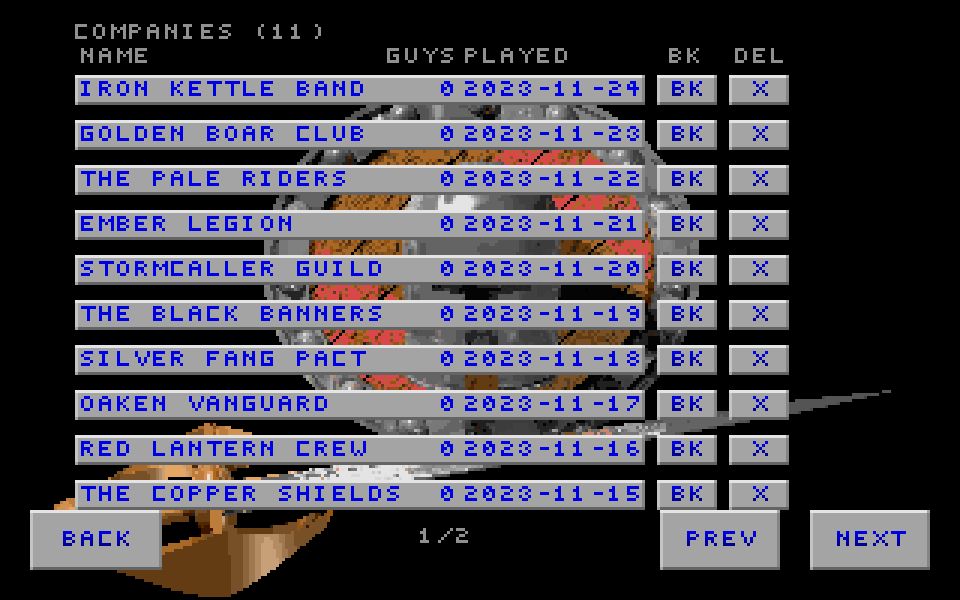
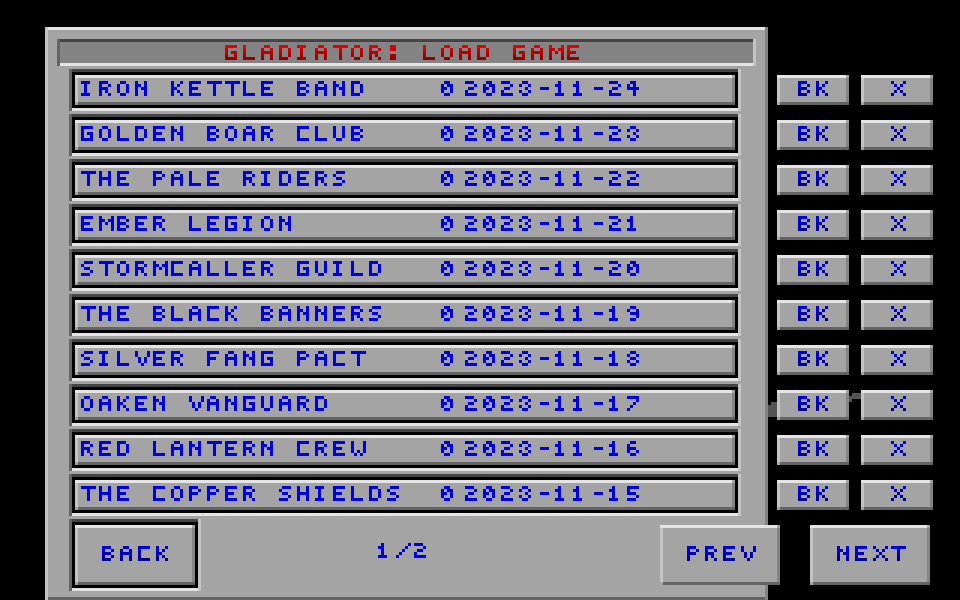
Restore the classic Load Game layout

diff --git a/src/interface/ui/menu_screen_specs.cpp b/src/interface/ui/menu_screen_specs.cpp
@@ -2702,7 +2702,8 @@ Sint32 name_entry_on_spec_row(int row, void* screen_state)
 // and pager hidden, BACK alone — what a bare engine sweep sees.
 CompanyListScreenState* g_company_list_state = nullptr;
 
-// §2.3 geometry: 10 rows at the save-slot pitch, each a (row, BK, X) triple.
+// §2.3 / §9.17 geometry: the old Load Game menu's 220px slot column and
+// 15px pitch, with the company-era BK/X actions appended as a slim side rail.
 // Table order groups by kind — rows 0-9, BK 10-19, X 20-29, then the chrome —
 // so the MenuSpecRow arg (== the spec ordinal, G3) decodes as arg/10 = kind,
 // arg%10 = visual row.
@@ -2713,21 +2714,21 @@ constexpr int kCompanyListBackIndex = 30;
 constexpr int kCompanyListPrevIndex = 31;
 constexpr int kCompanyListNextIndex = 32;
 
-// One visual row's (row, BK, X) triple: rects straight from the §2.3 table —
-// company_row (25,25+15i,190,10), BK (219,25+15i,20,10), X (243,25+15i,20,10).
+// One visual row's (row, BK, X) triple: company_row restores the retired slot
+// rect (25,25+15i,220,10); BK/X sit just outside its classic x=15..255 frame.
 // Static nav is the full-page multi-page shape (rows chain vertically,
 // row.right -> BK -> X, row9.down -> BACK, X column bottoms out on PREV); the
 // per-frame rewire recomputes every link from the live state anyway.
 #define OG_COMPANY_LIST_ROW(i)                                               \
     {.id = "company_row_" #i, .label = "",                                   \
-     .x = 25, .y = 25 + 15 * (i), .w = 190, .h = 10,                          \
+     .x = 25, .y = 25 + 15 * (i), .w = 220, .h = 10,                          \
      .action = ButtonAction::MenuSpecRow, .arg = (i),                        \
      .nav = {.up = (i) > 0 ? (i) - 1 : -1,                                    \
              .down = (i) < 9 ? (i) + 1 : kCompanyListBackIndex,               \
              .right = kCompanyListBakBase + (i)}}
 #define OG_COMPANY_LIST_BAK(i)                                               \
     {.id = "company_bak_" #i, .label = "BK",                                 \
-     .x = 219, .y = 25 + 15 * (i), .w = 20, .h = 10,                          \
+     .x = 259, .y = 25 + 15 * (i), .w = 24, .h = 10,                          \
      .action = ButtonAction::MenuSpecRow, .arg = kCompanyListBakBase + (i),  \
      .nav = {.up = (i) > 0 ? kCompanyListBakBase + (i) - 1 : -1,              \
              .down = (i) < 9 ? kCompanyListBakBase + (i) + 1                  \
@@ -2735,7 +2736,7 @@ constexpr int kCompanyListNextIndex = 32;
              .left = (i), .right = kCompanyListDelBase + (i)}}
 #define OG_COMPANY_LIST_DEL(i)                                               \
     {.id = "company_del_" #i, .label = "X",                                  \
-     .x = 243, .y = 25 + 15 * (i), .w = 20, .h = 10,                          \
+     .x = 287, .y = 25 + 15 * (i), .w = 24, .h = 10,                          \
      .action = ButtonAction::MenuSpecRow, .arg = kCompanyListDelBase + (i),  \
      .nav = {.up = (i) > 0 ? kCompanyListDelBase + (i) - 1 : -1,              \
              .down = (i) < 9 ? kCompanyListDelBase + (i) + 1                  \
@@ -2757,19 +2758,19 @@ constexpr MenuButtonSpec kCompanyListRows[] = {
     OG_COMPANY_LIST_DEL(9),
     // BACK to the main menu; Escape hotkey (the shared cancel grammar).
     {.id = "back", .label = "BACK", .hotkey = KEYSTATE_ESCAPE,
-     .x = 10, .y = 170, .w = 44, .h = 20,
+     .x = 25, .y = 175, .w = 40, .h = 20,
      .action = ButtonAction::MenuSpecRow, .arg = kCompanyListBackIndex,
      .nav = {.up = 9, .right = kCompanyListPrevIndex}},
     // Real MenuSpecRow pager actions (keyboard-live, §2.3); statically
     // hidden — the rewire shows them only when the list spans pages.
     {.id = "company_page_prev", .label = "PREV",
-     .x = 220, .y = 170, .w = 40, .h = 20,
+     .x = 220, .y = 175, .w = 40, .h = 20,
      .action = ButtonAction::MenuSpecRow, .arg = kCompanyListPrevIndex,
      .nav = {.up = 29, .left = kCompanyListBackIndex,
              .right = kCompanyListNextIndex},
      .hidden = true},
     {.id = "company_page_next", .label = "NEXT",
-     .x = 270, .y = 170, .w = 40, .h = 20,
+     .x = 270, .y = 175, .w = 40, .h = 20,
      .action = ButtonAction::MenuSpecRow, .arg = kCompanyListNextIndex,
      .nav = {.up = 29, .left = kCompanyListPrevIndex},
      .hidden = true},
@@ -2853,39 +2854,52 @@ void company_list_rewire(button* buttons, int count, int& /*highlighted*/)
         sync_button_hidden_state(buttons, i);
 }
 
-// The §2.3 content pass: title + column headers over the backdrop (the
-// black-strip idiom, U2), the three row columns at x=27/141/155, the "p/N"
-// indicator, and the empty state.
+// Keep the dedicated Company List backdrop hook even though the classic
+// slot-menu chrome is drawn later, in company_list_draw_content. The old
+// create_load_menu choreography was backdrop -> buttons -> panel -> repaint
+// slots; drawing the panel here would put it before the engine's first button
+// pass instead of preserving that recognizable late-overlay order.
+void company_list_draw_background(void* screen_state)
+{
+    picker_backdrop_draw_background(screen_state);
+}
+
+// The §2.3 content pass: old Load Game title, company metadata inside each
+// classic slot face, the modern pager indicator, and the empty state.
 void company_list_draw_content(void* screen_state)
 {
     const CompanyListScreenState* st =
         static_cast<const CompanyListScreenState*>(screen_state);
     screen* game = og::runtime::current_session->myscreen_;
 
-    const auto strip_text = [game](int x, int y, const std::string& text) {
-        const int width = static_cast<int>(text.size()) * 6;
-        game->draw_rect_filled(x - 2, y - 1, width + 4, 8, PURE_BLACK, 150);
-        game->text_normal.write_xy(x, y, WHITE, "%s", text.c_str());
-    };
-
     const int total =
         st != nullptr ? static_cast<int>(st->companies.size()) : 0;
-    strip_text(25, 8, format_company_list_title(total));
-    // §9.4 header line, de-collided: GUYS right-aligns over the 2-char
-    // count column (141..152, 3px clear of PLAYED); BK matches the button
-    // label and centers over the BK column (219..239); DEL centers over
-    // the X column (243..263).
-    strip_text(27, 16, "NAME");
-    strip_text(129, 16, "GUYS");
-    strip_text(155, 16, "PLAYED");
-    strip_text(223, 16, "BK");
-    strip_text(245, 16, "DEL");
+
+    // Verbatim legacy draw order: the engine has already drawn every face;
+    // cover the old menu's footprint with its inset panel, then repaint the
+    // faces that live inside it. BK/X sit beyond x=255 and remain untouched.
+    game->draw_button(15, 9, 255, 199, 1, 1);
+    game->draw_text_bar(19, 13, 251, 21);
+    constexpr char kClassicLoadTitle[] = "Gladiator: Load Game";
+    game->text_normal.write_xy(
+        135 - static_cast<int>(std::size(kClassicLoadTitle) - 1) * 3, 15,
+        kClassicLoadTitle, RED, 1);
+
+    const auto repaint_face = [](int index) {
+        vbutton* live = og::runtime::current_session
+                            ->allbuttons_[static_cast<std::size_t>(index)];
+        if (live != nullptr && !live->hidden)
+            live->vdisplay();
+    };
 
     if (st == nullptr || total == 0) {
         // Transient shape: deleting the last company exits the screen, but
         // the frame that consumed the delete still draws once.
         game->text_normal.write_xy_center(160, 90, ORANGE_START, "%s",
                                           "NO COMPANIES");
+        game->draw_text_bar(23, 173, 66, 196);
+        repaint_face(kCompanyListBackIndex);
+        game->draw_box(24, 174, 65, 195, 0, 0, 1);
         return;
     }
 
@@ -2904,15 +2918,28 @@ void company_list_draw_content(void* screen_state)
         const unsigned char row_color =
             info.slot == active_slot ? WHITE : DARK_BLUE;
         const int y = 27 + 15 * r;
+        game->draw_text_bar(23, 23 + 15 * r, 246, 36 + 15 * r);
+        repaint_face(r);
         game->text_normal.write_xy(27, y, row_color, "%s", row.name.c_str());
         game->text_normal.write_xy(141, y, row_color, "%s",
                                    row.roster.c_str());
         game->text_normal.write_xy(155, y, row_color, "%s",
                                    row.played.c_str());
+        // The old slot loop redrew this one-pixel box after each face.
+        game->draw_box(24, 24 + 15 * r, 245, 35 + 15 * r, 0, 0, 1);
     }
 
-    if (st->page.multi_page())
-        strip_text(140, 176, st->page.indicator());
+    game->draw_text_bar(23, 173, 66, 196);
+    repaint_face(kCompanyListBackIndex);
+    game->draw_box(24, 174, 65, 195, 0, 0, 1);
+    if (st->page.multi_page()) {
+        // PREV overlaps the restored panel and must be repainted with BACK;
+        // NEXT is repainted too so the footer is a single late draw pass.
+        repaint_face(kCompanyListPrevIndex);
+        repaint_face(kCompanyListNextIndex);
+        game->text_normal.write_xy_center(135, 181, DARK_BLUE, "%s",
+                                          st->page.indicator().c_str());
+    }
 }
 
 // G3 row dispatch: OPEN / BK / X per visual row, BACK, and the pagers.
@@ -3527,7 +3554,7 @@ const MenuScreenSpec& company_list_menu_screen_spec()
         // Initial highlight: row 0 — what CONTINUE opens (§2.3).
         .default_highlight = 0,
         .polls_lobby = true,
-        .draw_background = &picker_backdrop_draw_background,
+        .draw_background = &company_list_draw_background,
         .draw_content = &company_list_draw_content,
         .on_spec_row = &company_list_on_spec_row,
         .exit_value = MENU_REDRAW,

diff --git a/tests/test_menu_pins.cpp b/tests/test_menu_pins.cpp
@@ -303,10 +303,10 @@ TEST(MenuEnginePins, name_entry_exact_table)
 // ---------------------------------------------------------------------------
 // §2.3 Company List (Load): a Layer-F engine screen. 10 visual rows, each a
 // (row, BK, X) triple at the save-slot pitch — rects transcribed from the
-// design table INDEPENDENTLY of the spec's macro (row (25,25+15i,190,10),
-// BK (219,25+15i,20,10), X (243,25+15i,20,10)) — then BACK and the PageModel
-// pagers (statically hidden; the per-frame rewire shows them only when the
-// list spans pages). Every row dispatches through MenuSpecRow with arg ==
+// design amendment INDEPENDENTLY of the spec's macro: the classic Load Game
+// row (25,25+15i,220,10), with BK (259,25+15i,24,10) and
+// X (287,25+15i,24,10) in the modern side rail — then the old BACK placement
+// and the PageModel pagers. Every row dispatches through MenuSpecRow with arg ==
 // spec ordinal (rows 0-9, BK 10-19, X 20-29, back 30, prev 31, next 32).
 // Static nav is the full-page multi-page shape.
 // ---------------------------------------------------------------------------
@@ -341,30 +341,30 @@ TEST(MenuEnginePins, company_list_exact_table)
 
     for (int i = 0; i < 10; ++i) {
         const int y = 25 + 15 * i;
-        check_row(i, "company_row_" + std::to_string(i), "", 25, y, 190, 10,
+        check_row(i, "company_row_" + std::to_string(i), "", 25, y, 220, 10,
                   MenuNav{.up = i > 0 ? i - 1 : -1,
                           .down = i < 9 ? i + 1 : 30,
                           .left = -1, .right = 10 + i},
                   false);
-        check_row(10 + i, "company_bak_" + std::to_string(i), "BK", 219, y,
-                  20, 10,
+        check_row(10 + i, "company_bak_" + std::to_string(i), "BK", 259, y,
+                  24, 10,
                   MenuNav{.up = i > 0 ? 10 + i - 1 : -1,
                           .down = i < 9 ? 10 + i + 1 : 30,
                           .left = i, .right = 20 + i},
                   false);
-        check_row(20 + i, "company_del_" + std::to_string(i), "X", 243, y,
-                  20, 10,
+        check_row(20 + i, "company_del_" + std::to_string(i), "X", 287, y,
+                  24, 10,
                   MenuNav{.up = i > 0 ? 20 + i - 1 : -1,
                           .down = i < 9 ? 20 + i + 1 : 31,
                           .left = 10 + i, .right = -1},
                   false);
     }
-    check_row(30, "back", "BACK", 10, 170, 44, 20,
+    check_row(30, "back", "BACK", 25, 175, 40, 20,
               MenuNav{.up = 9, .down = -1, .left = -1, .right = 31}, false);
     EXPECT_EQ(KEYSTATE_ESCAPE, buttons[30].hotkey) << "company_list back";
-    check_row(31, "company_page_prev", "PREV", 220, 170, 40, 20,
+    check_row(31, "company_page_prev", "PREV", 220, 175, 40, 20,
               MenuNav{.up = 29, .down = -1, .left = 30, .right = 32}, true);
-    check_row(32, "company_page_next", "NEXT", 270, 170, 40, 20,
+    check_row(32, "company_page_next", "NEXT", 270, 175, 40, 20,
               MenuNav{.up = 29, .down = -1, .left = 31, .right = -1}, true);
 }
 

diff --git a/tests/test_menu_engine.cpp b/tests/test_menu_engine.cpp
@@ -1048,16 +1048,18 @@ TEST(MenuEngine, company_list_spec_shape_and_nav_variants)
             << "empty shape highlight must settle on BACK";
     }
 
-    // Draw smoke over the headless screen buffer: the empty state (both the
-    // null-state and zero-company shapes draw NO COMPANIES) and a populated
-    // two-page state with a corrupt row + the "p/N" indicator. The flows pin
-    // behavior; this pins that every content branch draws without a session
-    // beyond the shared test screen.
+    // Draw smoke over the headless screen buffer: the restored classic panel
+    // plus the empty state (both null-state and zero-company shapes draw NO
+    // COMPANIES), then a populated two-page state with a corrupt row + the
+    // "p/N" indicator. The flows pin behavior; this pins both draw passes.
+    ASSERT_TRUE(spec.draw_background != nullptr);
     ASSERT_TRUE(spec.draw_content != nullptr);
+    spec.draw_background(nullptr);
     spec.draw_content(nullptr);
     {
         og::ui::CompanyListScreenState state;
         state.page = og::ui::PageModel::make(0, 10);
+        spec.draw_background(&state);
         spec.draw_content(&state);
         for (int i = 0; i < 15; ++i) {
             state.companies.push_back(make_company_info(
@@ -1065,6 +1067,7 @@ TEST(MenuEngine, company_list_spec_shape_and_nav_variants)
         }
         state.page = og::ui::PageModel::make(15, 10);
         state.page.page = 1;
+        spec.draw_background(&state);
         spec.draw_content(&state);
     }
 }

diff --git a/docs/company-basecamp-design.md b/docs/company-basecamp-design.md
@@ -560,25 +560,28 @@ Change vs picker.cpp:1516-1534: split `continue_game` (80,75,140,20) into a side
 
 ### 2.3 Company List (Load) — unlimited, paged, delete, backups door
 
-Chassis: save-slot geometry (25,25+15i) + the VIEW-LEVEL pager precedent.
+Chassis: the classic `Gladiator: Load Game` grey panel and save-slot geometry
+(25,25+15i), with the company-only BK/X actions appended as a narrow rail and
+the VIEW-LEVEL pager precedent in the footer (final presentation: §9.17).
 
 ```
-| COMPANIES (12)          (y=8)                                                  |
-|  NAME               GUYS PLAYED       BKUP DEL      (headers y=16)             |
-|  [IRON KETTLE BAND   12  2026-07-19] [BK] [X]       row 0  (y=25)              |
+|        GLADIATOR: LOAD GAME          |          red inset title (y=15)          |
+|  [IRON KETTLE BAND   12  2026-07-19]   [BK] [X]    row 0  (y=25)              |
 |  ... rows 1..9 (15px pitch)                                                    |
 |  [BACK]                     1/2         [PREV] [NEXT]                          |
 ```
 
 | id | rect | label | budget | action |
 |---|---|---|---|---|
-| company_row_0..9 | (25,25+15i,190,10) | "" (content-pass text) | — | click = OPEN (1-click primary) |
-| company_bak_0..9 | (219,25+15i,20,10) | `BK` | 2/2 | Backups sub-view (§2.4) |
-| company_del_0..9 | (243,25+15i,20,10) | `X` | 1/2 | **`no_or_yes`** confirm: `DELETE COMPANY <name>?` / `BACKUPS ARE DELETED TOO.` (U3) |
-| back | (10,170,44,20) | `BACK` | 4/6 | to main menu |
-| company_page_prev/next | (220,170,40,20)/(270,170,40,20) | `PREV`/`NEXT` | 4/5 | real MenuSpecRow actions, keyboard-live; hidden when ≤ 1 page; `p/N` text at (140,176) |
+| company_row_0..9 | (25,25+15i,220,10) | "" (content-pass text) | — | click = OPEN (1-click primary) |
+| company_bak_0..9 | (259,25+15i,24,10) | `BK` | 2/2 | Backups sub-view (§2.4) |
+| company_del_0..9 | (287,25+15i,24,10) | `X` | 1/2 | **`no_or_yes`** confirm: `DELETE COMPANY <name>?` / `BACKUPS ARE DELETED TOO.` (U3) |
+| back | (25,175,40,20) | `BACK` | 4/5 | to main menu; classic slot-menu placement |
+| company_page_prev/next | (220,175,40,20)/(270,175,40,20) | `PREV`/`NEXT` | 4/5 | real MenuSpecRow actions, keyboard-live; hidden when ≤ 1 page; `p/N` text centered at (135,181) |
 
 - Row text: name ≤ 18ch at x=27, roster count 2ch at x=141, `YYYY-MM-DD` at x=155..215.
+  The old menu had no column-header row; the recognizable date and compact count ride
+  inside the restored 220px slot face.
   Sort: last-played DESC; row 0 == what CONTINUE opens. **The active company's row gets
   red `do_outline`** (U4). Corrupt files list as `CORRUPT` rows (§3.5) with BK (restore
   path) and X (delete; confirm names the backups) still available.
@@ -2372,3 +2375,26 @@ explicit column.
   ordinals and scenario click behavior are unchanged from §9.15.
 - Pins: exact geometry, nav matrices, NAME and TEAM coordinate taps, and all
   six Base Camp visual captures move to the new grid.
+
+### 9.17 UX round 7 (2026-07-21) — classic Load Game chassis [FINAL]
+
+The Company List keeps unlimited named companies, backups, deletion, sorting,
+and paging, but once again reads visually as OpenGlad's old Load Game menu.
+This supersedes §9.4's free-floating header treatment.
+
+- Restore the exact classic inner panel `(15,9)..(255,199)`, title well
+  `(19,13)..(251,21)`, red `Gladiator: Load Game` title centered at x=135,
+  per-row wells `(23,23+15r)..(246,36+15r)`, and BACK well
+  `(23,173)..(66,196)`.
+- Restore each primary slot face to `(25,25+15r,220,10)` and the BACK button
+  to `(25,175,40,20)`. The post-face one-pixel boxes from the old slot loop
+  are retained around every visible company row and BACK.
+- Company metadata remains inside the wider classic face at x=27/141/155.
+  The §9.4 column headers are removed; the date and compact roster count are
+  treated as extensions of the old saved-game label.
+- BK and X remain available as an intentionally newer side rail at
+  `(259,25+15r,24,10)` and `(287,25+15r,24,10)`. PREV/NEXT move to y=175;
+  the page indicator uses DARK_BLUE at `(135,181)` inside the grey footer.
+- Behavior, row ordinals, active-company outline, keyboard graph, and all
+  company/backups flows are unchanged. Exact-table pins carry the new rects;
+  engine draw smoke covers the custom background and content passes.
